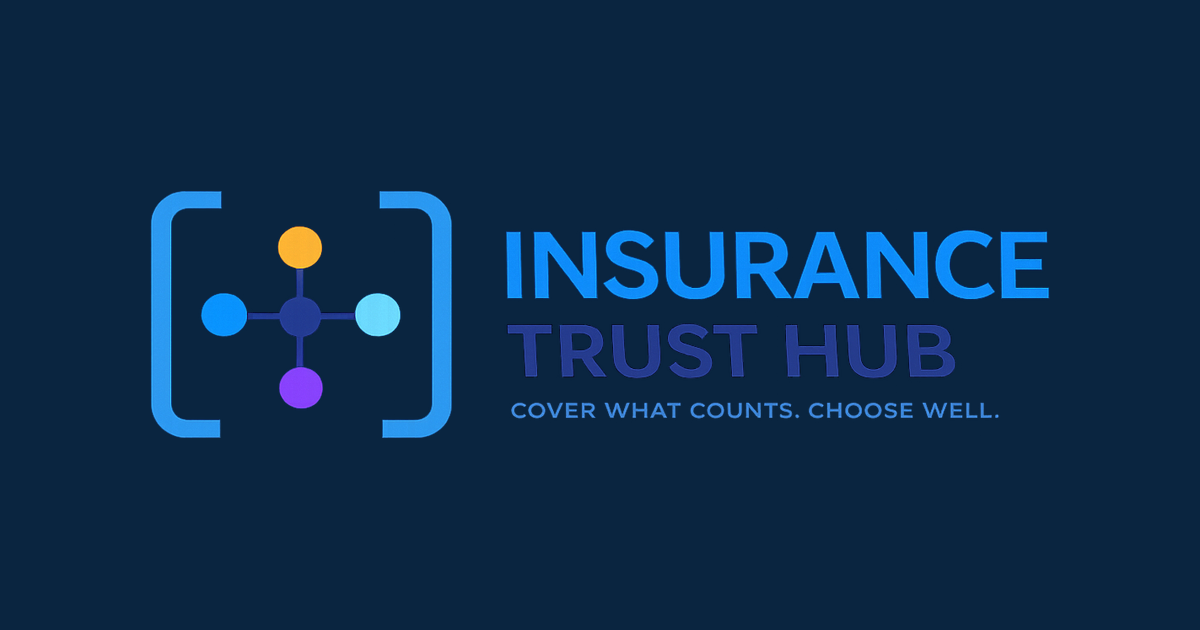
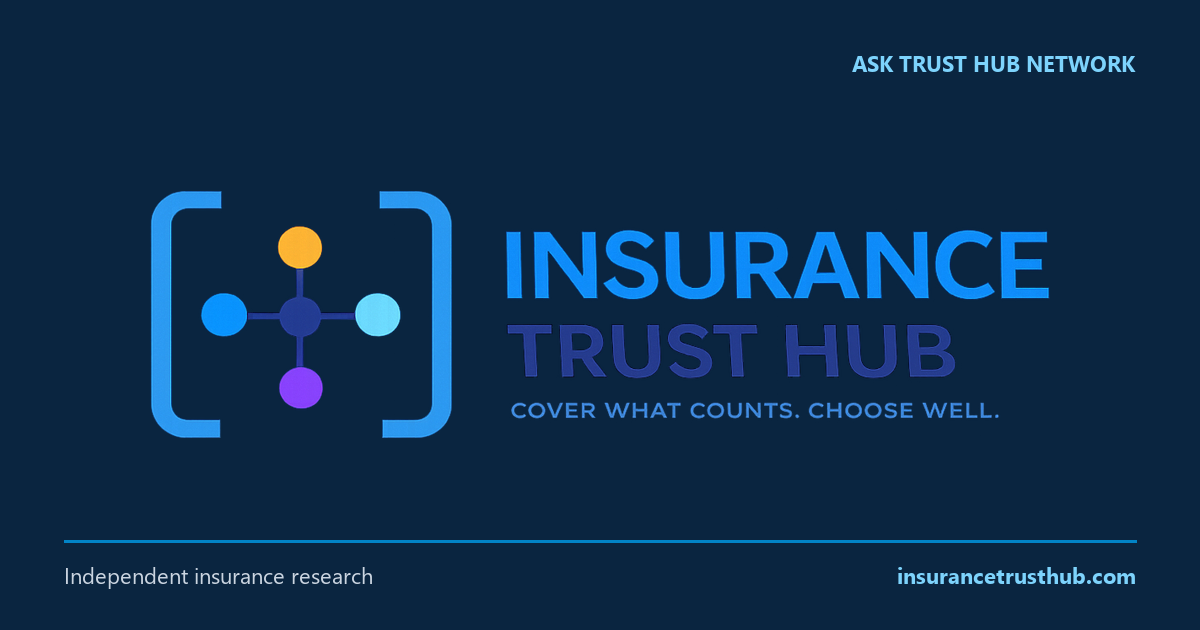
feat(share): SHARE-002 Insurance Trust Hub social baseline
Keep the Insurance navy lockup at 1200x630, add Ask network identity
and insurancetrusthub.com on the default card, and pin canonical plus
Open Graph URLs to the Insurance production host.

diff --git a/lib/seo/metadata.ts b/lib/seo/metadata.ts
@@ -1,8 +1,13 @@
 import type { Metadata } from 'next';
 import { SITE_NAME, SITE_URL } from '@/lib/constants';
-import { brandAsset, BRAND_ICONS, BRAND_LOGO } from '@/lib/brand';
+import { BRAND_ASSET_VERSION, BRAND_ICONS } from '@/lib/brand';
+import {
+  SHARE_HUB,
+  resolveShareOrigin,
+  shareOgImageAbsoluteUrl,
+} from '@/lib/seo/share-hub';
 
-export { SITE_URL };
+export { SITE_URL, SHARE_HUB };
 
 export const HOMEPAGE_TITLE =
   'Independent Insurance Research | Insurance Trust Hub';
@@ -13,10 +18,10 @@ export const DEFAULT_SITE_DESCRIPTION =
   'Insurance Trust Hub is independent insurance research — Marketplace tools, Medicare intelligence, verification pathways, and verified agency listings only when real inventory exists. Not a policy marketplace.';
 
 export const OG_IMAGE = {
-  url: brandAsset(BRAND_LOGO.og),
-  width: 1200,
-  height: 630,
-  alt: 'Insurance Trust Hub — independent licensed agency directory',
+  url: shareOgImageAbsoluteUrl(resolveShareOrigin(), `v=${BRAND_ASSET_VERSION}`),
+  width: SHARE_HUB.ogWidth,
+  height: SHARE_HUB.ogHeight,
+  alt: SHARE_HUB.ogAlt,
 } as const;
 
 export function buildOpenGraph(
@@ -30,7 +35,7 @@ export function buildOpenGraph(
   return {
     title: overrides.title ?? HOMEPAGE_TITLE,
     description: overrides.description ?? HOMEPAGE_DESCRIPTION,
-    url: overrides.url ?? SITE_URL,
+    url: overrides.url ?? resolveShareOrigin(),
     siteName: SITE_NAME,
     type: overrides.type ?? 'website',
     locale: 'en-US',
@@ -45,10 +50,10 @@ export function buildTwitter(
   } = {}
 ): NonNullable<Metadata['twitter']> {
   return {
-    card: 'summary_large_image',
+    card: SHARE_HUB.twitterCard,
     title: overrides.title ?? HOMEPAGE_TITLE,
     description: overrides.description ?? HOMEPAGE_DESCRIPTION,
-    images: [OG_IMAGE.url],
+    images: [{ url: OG_IMAGE.url, alt: SHARE_HUB.ogAlt }],
   };
 }
 
@@ -61,7 +66,8 @@ export interface BuildMetadataOptions {
 }
 
 export function buildMetadata(options: BuildMetadataOptions): Metadata {
-  const url = options.path ? `${SITE_URL}${options.path}` : SITE_URL;
+  const origin = resolveShareOrigin();
+  const url = options.path ? `${origin}${options.path}` : origin;
 
   return {
     title: options.title,
@@ -93,7 +99,8 @@ export function buildMetadata(options: BuildMetadataOptions): Metadata {
 }
 
 export const rootLayoutMetadata: Metadata = {
-  metadataBase: new URL(SITE_URL),
+  metadataBase: new URL(resolveShareOrigin()),
+  alternates: { canonical: `${resolveShareOrigin()}/` },
   applicationName: SITE_NAME,
   creator: SITE_NAME,
   publisher: SITE_NAME,

diff --git a/lib/seo/share-hub.ts b/lib/seo/share-hub.ts
@@ -1,0 +1,55 @@
+/**
+ * SHARE-002 — Insurance Trust Hub social-share identity (repo-local).
+ * Production canonical + default card must never drift to localhost,
+ * a Vercel preview host, or another TrustHub domain.
+ */
+
+export const SHARE_HUB = {
+  id: 'insurance',
+  brand: 'Insurance Trust Hub',
+  host: 'www.insurancetrusthub.com',
+  apexHost: 'insurancetrusthub.com',
+  origin: 'https://www.insurancetrusthub.com',
+  ogImagePath: '/brand/insurance-trust-hub-og.png',
+  ogWidth: 1200,
+  ogHeight: 630,
+  ogAlt:
+    'Insurance Trust Hub — independent insurance research from the Ask Trust Hub Network',
+  twitterCard: 'summary_large_image',
+  networkLabel: 'ASK TRUST HUB NETWORK',
+} as const;
+
+export const FOREIGN_TRUSTHUB_HOSTS = [
+  'www.asktrusthub.com',
+  'asktrusthub.com',
+  'www.movetrusthub.com',
+  'movetrusthub.com',
+  'www.lendertrusthub.com',
+  'lendertrusthub.com',
+  'www.contractortrusthub.com',
+  'contractortrusthub.com',
+  'www.seniortrusthub.com',
+  'seniortrusthub.com',
+  'www.investortrusthub.com',
+  'investortrusthub.com',
+] as const;
+
+export function isForbiddenShareHost(hostname: string): boolean {
+  const host = hostname.toLowerCase();
+  if (host === 'localhost' || host === '127.0.0.1') return true;
+  if (host.endsWith('.vercel.app')) return true;
+  return (FOREIGN_TRUSTHUB_HOSTS as readonly string[]).includes(host);
+}
+
+export function resolveShareOrigin(): string {
+  return SHARE_HUB.origin;
+}
+
+export function shareOgImageAbsoluteUrl(
+  origin: string = SHARE_HUB.origin,
+  cacheQuery: string,
+): string {
+  const base = origin.replace(/\/$/, '');
+  const q = cacheQuery.startsWith('?') ? cacheQuery : `?${cacheQuery}`;
+  return `${base}${SHARE_HUB.ogImagePath}${q}`;
+}

diff --git a/lib/brand.ts b/lib/brand.ts
@@ -3,7 +3,7 @@
 import { INSURANCE_BRAND, INSURANCE_TAGLINE } from '@/lib/design/insurance-design-system';
 
 /** Bump when logo / favicon assets change (cache bust). */
-export const BRAND_ASSET_VERSION = '20260807transport';
+export const BRAND_ASSET_VERSION = '20260821share002';
 export const INSURANCE_LOGO_VERSION = BRAND_ASSET_VERSION;
 
 export function brandAsset(path: string): string {
